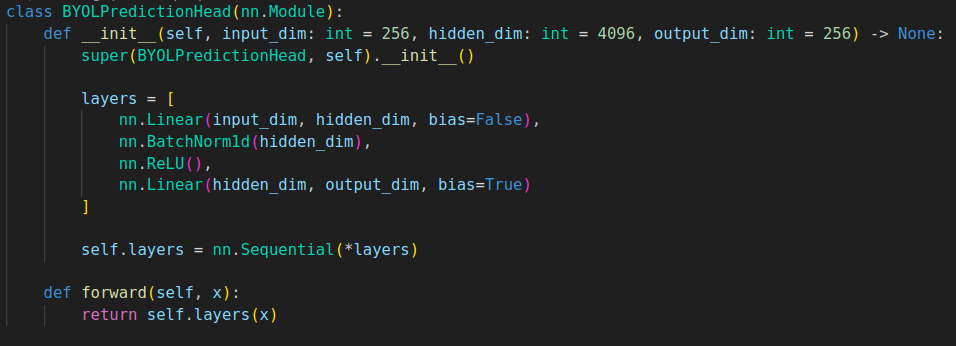
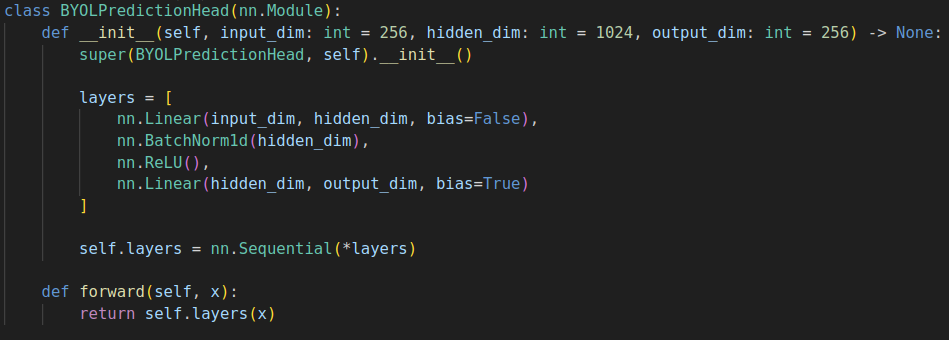
docs: resnet example

diff --git a/byol/models/heads.py b/byol/models/heads.py
@@ -1,7 +1,7 @@
 import torch.nn as nn
 
 class BYOLProjectionHead(nn.Module):
-    def __init__(self, input_dim: int = 2048, hidden_dim: int = 4096, output_dim: int = 256) -> None:
+    def __init__(self, input_dim: int = 512, hidden_dim: int = 1024, output_dim: int = 256) -> None:
         super(BYOLProjectionHead, self).__init__()
 
         layers = [
@@ -18,7 +18,7 @@ class BYOLProjectionHead(nn.Module):
 
 
 class BYOLPredictionHead(nn.Module):
-    def __init__(self, input_dim: int = 256, hidden_dim: int = 4096, output_dim: int = 256) -> None:
+    def __init__(self, input_dim: int = 256, hidden_dim: int = 1024, output_dim: int = 256) -> None:
         super(BYOLPredictionHead, self).__init__()
 
         layers = [
